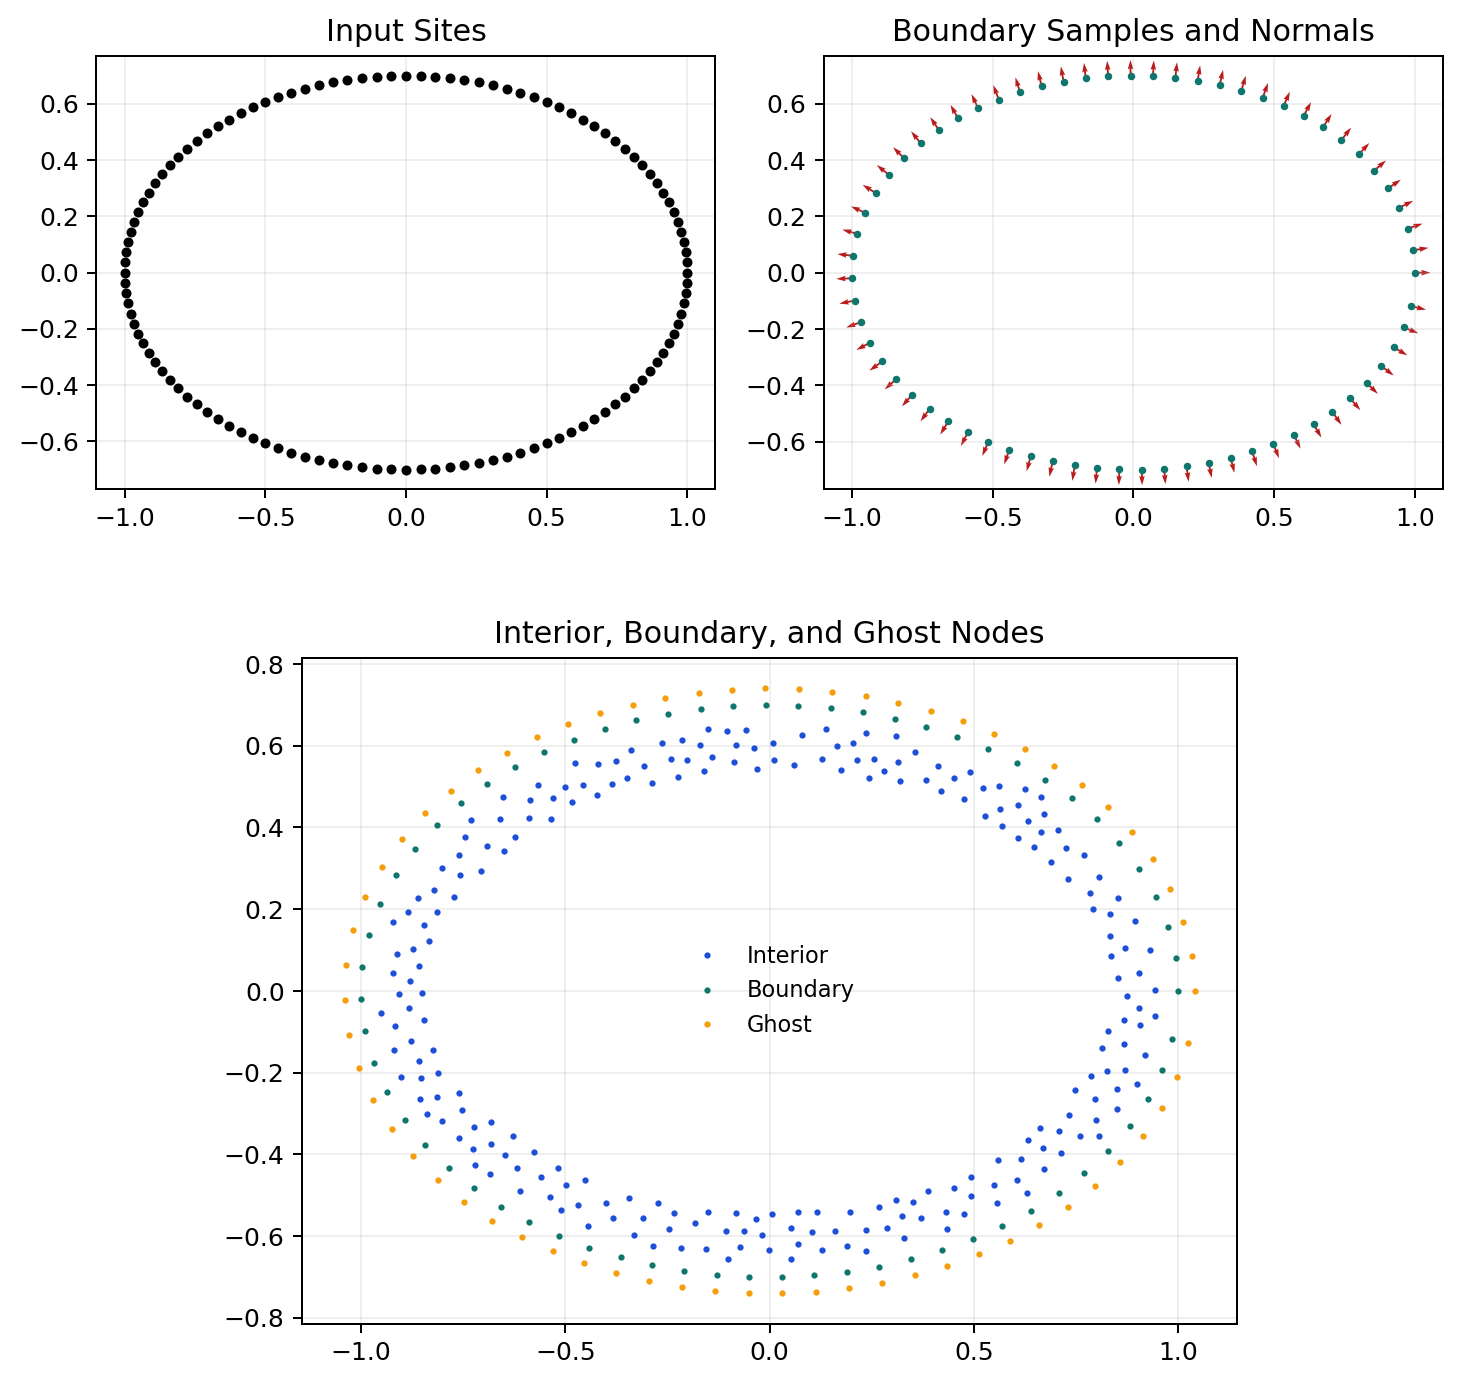
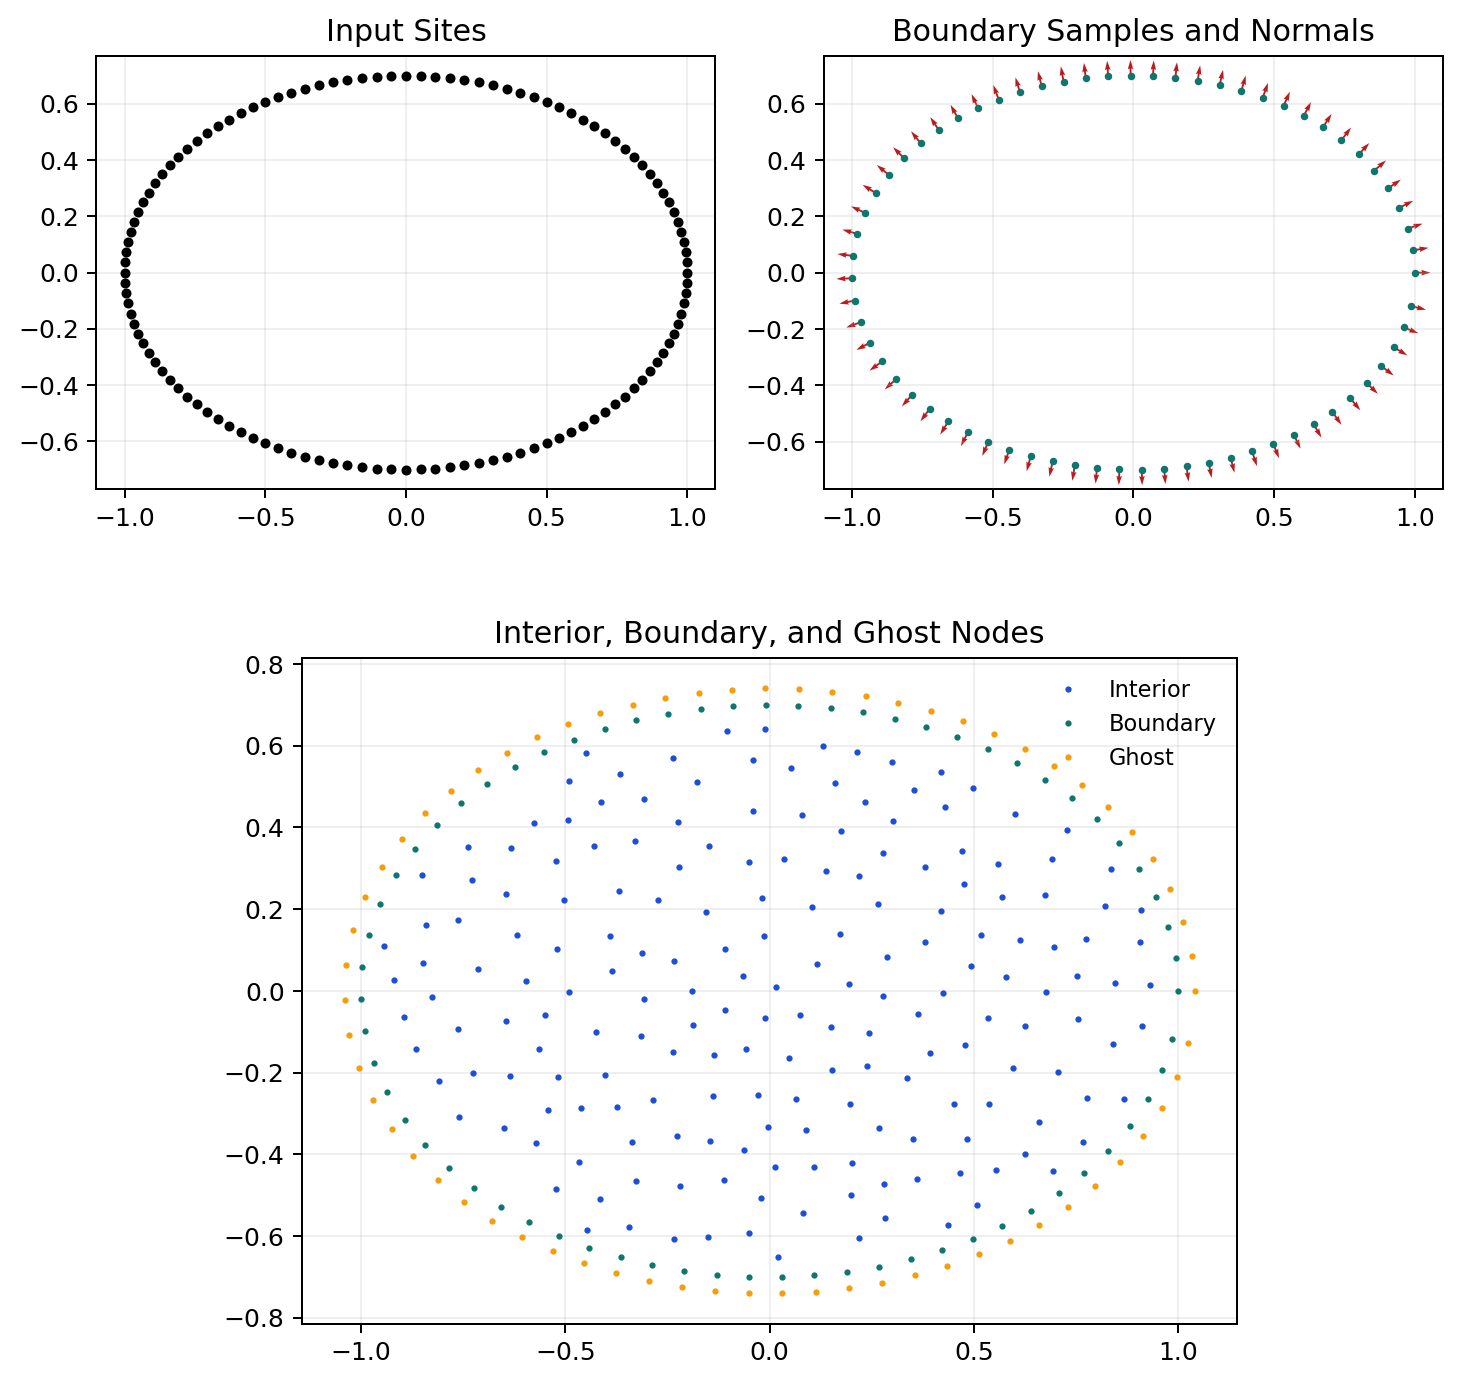
Fix README geometry render

diff --git a/scripts/render_readme_examples.py b/scripts/render_readme_examples.py
@@ -20,7 +20,7 @@ OUTDIR = ROOT / "docs" / "readme_assets"
 OUTDIR.mkdir(parents=True, exist_ok=True)
 
 
-def build_domain() -> tuple[EmbeddedSurface, object]:
+def build_domain(*, do_outer_refinement: bool = True) -> tuple[EmbeddedSurface, object]:
     t = np.linspace(0.0, 2.0 * np.pi, 120, endpoint=False)
     curve = np.column_stack([np.cos(t), 0.7 * np.sin(t)])
 
@@ -35,7 +35,7 @@ def build_domain() -> tuple[EmbeddedSurface, object]:
         0.08,
         seed=17,
         strip_count=5,
-        do_outer_refinement=True,
+        do_outer_refinement=do_outer_refinement,
         outer_fraction_of_h=0.5,
         outer_refinement_zone_size_as_multiple_of_h=2.0,
     )
@@ -45,8 +45,8 @@ def build_domain() -> tuple[EmbeddedSurface, object]:
 def save_geometry(surface, domain) -> Path:
     fig = plt.figure(figsize=(8, 8), constrained_layout=True)
     axes = fig.subplot_mosaic([["sites", "boundary"], ["domain", "domain"]])
-    xb = surface.get_sample_sites()
-    nr = surface.get_nrmls()
+    xb = domain.get_bdry_nodes()
+    nr = domain.get_nrmls()
     xi = domain.get_interior_nodes()
     xg = domain.get_ghost_nodes()
 
@@ -205,11 +205,12 @@ def save_diffusion(domain) -> Path:
 
 
 def main() -> None:
-    surface, domain = build_domain()
+    surface, geometry_domain = build_domain(do_outer_refinement=False)
+    _, solver_domain = build_domain(do_outer_refinement=True)
     paths = [
-        save_geometry(surface, domain),
-        save_poisson(domain),
-        save_diffusion(domain),
+        save_geometry(surface, geometry_domain),
+        save_poisson(solver_domain),
+        save_diffusion(solver_domain),
     ]
     for path in paths:
         print(path)